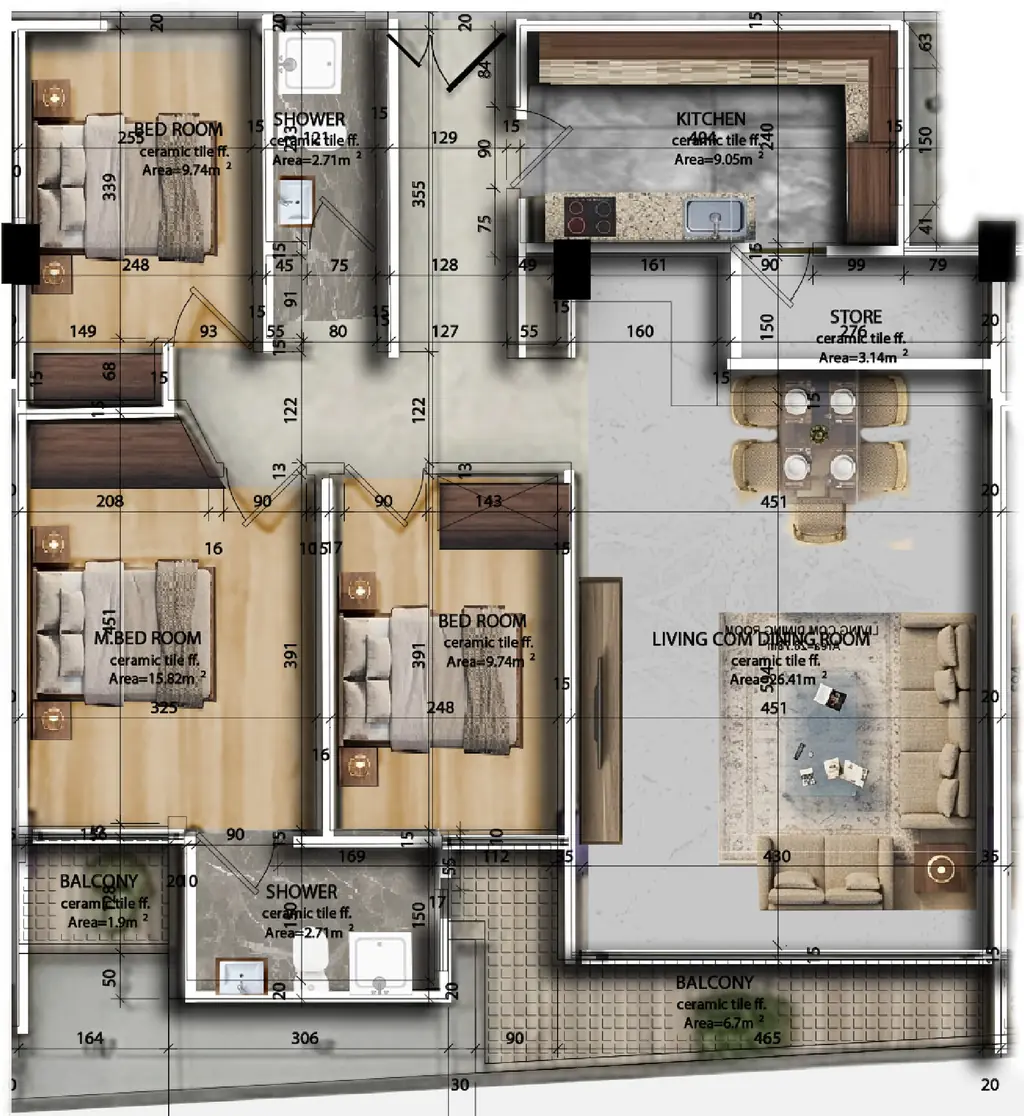
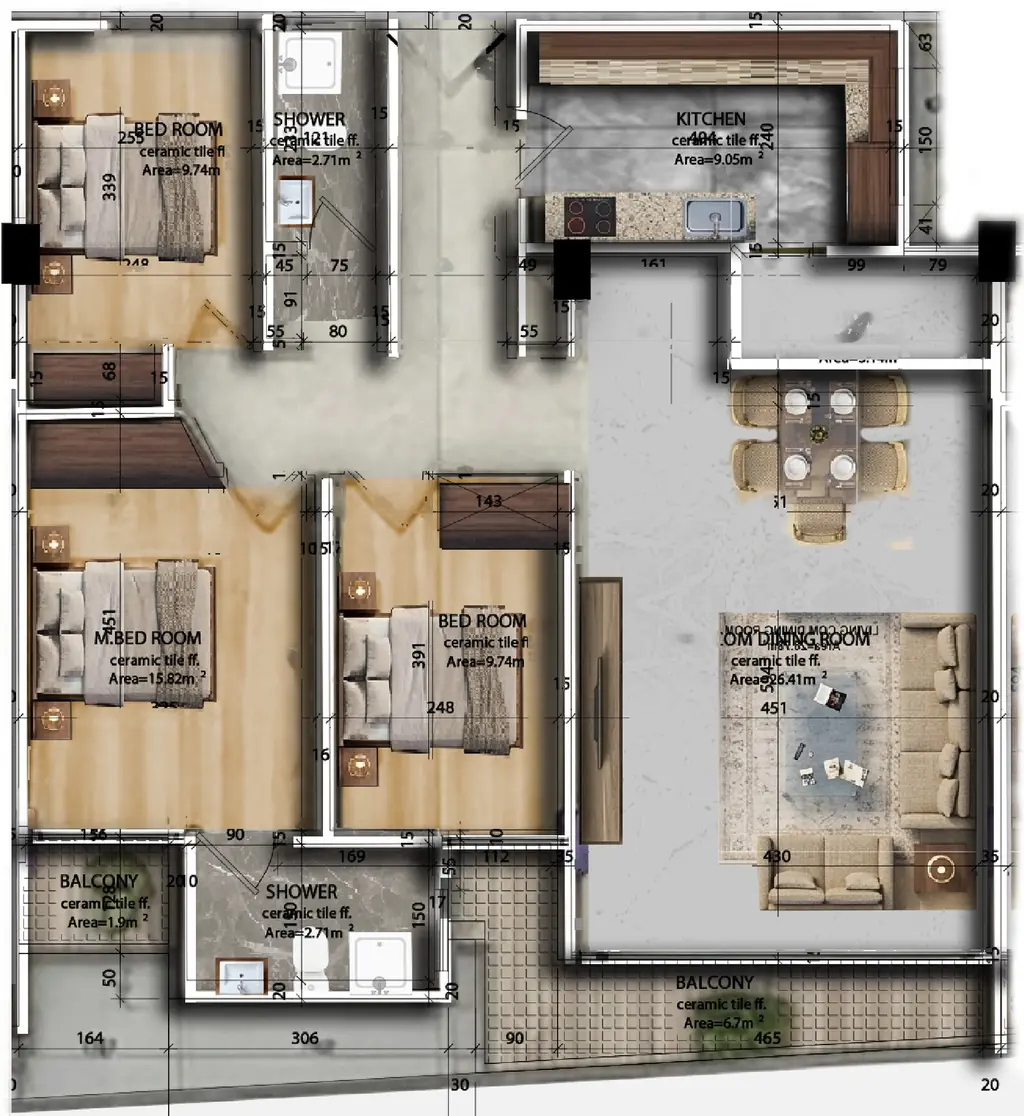
Finalise the AI render art direction and clean the BL05 floor texture (DESIGN rev 8.2)
- Prompts now match the site's mood, palette, light and lens so renders sit with the page
- The kitchen prompt follows the plan's window position
- Dimension lines are painted out of open floor areas in the 3D texture

diff --git a/docs/design/units/clean-bl05-texture.py b/docs/design/units/clean-bl05-texture.py
@@ -1,0 +1,28 @@
+import sys, json
+from PIL import Image, ImageFilter, ImageChops, ImageDraw
+import os; ROOT=os.path.abspath(os.path.join(os.path.dirname(__file__),'../../..'))+'/'
+CX,CY=180,0
+im=Image.open(ROOT+'brand-source/plans/bl05.jpg').convert('RGB').crop((CX,CY,1800,1765))
+d=json.load(open(ROOT+'docs/design/units/bl05.json'))
+SX,SY=d['pxPerM']; OX,OY=d['originPx']
+P=lambda p:(p[0]*SX+OX-CX,p[1]*SY+OY-CY)
+allow=Image.new('L',im.size,0); A=ImageDraw.Draw(allow)
+for r in d['rooms']:
+    if r['id'] in ('bed1','mbed','bed2','living','store'): A.polygon([P(p) for p in r['poly']],fill=255)
+A.polygon([P(p) for p in d['hall']['poly']],fill=255)
+for s in d['solids']:
+    if s['kind'] in ('furniture','counter','wardrobe'):
+        pts=[P(p) for p in s['poly']]; xs=[p[0] for p in pts]; ys=[p[1] for p in pts]
+        A.rectangle((min(xs)-10,min(ys)-10,max(xs)+10,max(ys)+10),fill=0)
+A.rectangle((1320-CX,965,1605-CX,1335),fill=0)   # rug
+A.rectangle((1600-CX,1330,1720-CX,1420),fill=0)  # side lamp table
+r,g,b=im.split()
+mx=ImageChops.lighter(ImageChops.lighter(r,g),b); mn=ImageChops.darker(ImageChops.darker(r,g),b)
+dark=mx.point(lambda v:255 if v<120 else 0); neutral=ImageChops.subtract(mx,mn).point(lambda v:255 if v<40 else 0)
+M=ImageChops.multiply(dark,neutral)
+thin=ImageChops.subtract(M,M.filter(ImageFilter.MinFilter(9)).filter(ImageFilter.MaxFilter(9)))
+mask=ImageChops.multiply(thin.filter(ImageFilter.MaxFilter(5)),allow)
+out=im
+for k in (9,15,21,27):
+    out=Image.composite(out.filter(ImageFilter.MedianFilter(k)),out,mask)
+out.resize((1024,1116),Image.LANCZOS).save(ROOT+'docs/design/units/bl05-floor.webp',quality=74,method=6)

diff --git a/docs/AI-RENDERS.md b/docs/AI-RENDERS.md
@@ -7,6 +7,7 @@ Start the trial only when this list is final. Generate everything in one sitting
 
 1. Generate the **shared interiors** (section A). The finishes are the same across the tower, so one set serves all 9 types.
 2. Generate one **isometric cutaway** per type (section B), using that type's plan as the reference image.
+   - Optional: if there is an edit/inpaint mode, run the 9 plan clean-ups (section C). They improve the live 3D floors.
 3. Make 2–3 variations of each and keep the best.
 4. Download originals at the largest size offered (PNG or JPG) into `brand-source/renders/` (not `public/`). Impl converts them to AVIF/WebP.
 5. Cancel the trial.
@@ -14,15 +15,38 @@ Start the trial only when this list is final. Generate everything in one sitting
 ## Rules for every prompt
 - **Confirmed facts only:** ceramic tile floors; a high-rise apartment in Addis Ababa; balconies where the plan shows them. Nothing else is confirmed: no brands, marble, wood floors, smart-home kit or appliances by name.
 - No text, logos, watermarks or people. No sea, beach or skyline that reads as another city: city views are of low-rise Addis with green hills on the horizon.
-- Palette: warm ivory walls, soft natural light, light wood and linen, small brushed-gold accents, navy textiles as the one deep colour (brand: navy #1A273F, gold #B59458, ivory #FBF7F2).
-- Camera: eye level (1.5 m), 24–28 mm, two-point perspective, 3:2 landscape, photoreal architectural visualisation.
+
+## Art direction (matches the site; DESIGN §2–§3, §9.6.5)
+Append the **style line** below to every interior prompt (section A) unchanged, and the **negative line** wherever the tool takes one.
+
+- **Mood:** calm, quiet and warm, like a well-kept hotel suite photographed for an editorial, not a showroom. Uncluttered, and lived-in only lightly (a folded throw, one book, one plant).
+- **Palette (the site's tokens):**
+  - Walls: ivory `#FBF7F2` and sand `#F3ECE2`, warm off-white, never pure white.
+  - Floors: ceramic tile in the plan's own tones. Light warm-grey large-format tiles in the living room, kitchen and hall. Warm oak-look ceramic plank tiles in the bedrooms, as the plans colour them. Light grey veined ceramic tiles in the shower rooms.
+  - Furniture: linen and light oak.
+  - The **one deep colour is navy** (`#1A273F` to `#0F1828`) in a few textiles (cushions, a throw, a rug border).
+  - **Gold** (`#B59458`) only as small brushed-metal accents (lamp bases, handles, a tap), never large surfaces.
+  - No other saturated colour; greens only from one plant or the hills outside.
+- **Light:** soft late-afternoon daylight (about 4500 K) from the room's window or balcony side, with gentle bounce and soft shadows. Low contrast, with no hard sun patches. The window is exposed so the view still reads; no blown-out glass. Lamps can be on, but they are dimmer than the daylight.
+- **Lens and camera:**
+  - 24 mm for rooms up to about 10 m², 28 mm for the living room.
+  - Camera height 1.45 m, level, so **vertical lines stay vertical** (two-point perspective, no keystone, no fisheye).
+  - The camera stands near the room's door, looking toward the window or balcony wall.
+  - 3:2 landscape, generated as large as the tool allows (at least 1600 × 1067).
+- **Composition:** put the window or balcony on a vertical third. **Keep the bottom-left corner (about 30% wide × 15% tall) calm and low-detail**, because the label chip "Artist's impression; finishes may vary." sits there on the site.
+- **Grade:** soft and slightly warm. Whites sit at ivory, blacks are lifted slightly, saturation is about 10% below natural. No teal-and-orange grade, HDR halos, plastic CGI sheen or bloom.
+- **View outside:** low-rise Addis Ababa rooftops and trees with green hills on the horizon, under a soft hazy sky. Never sea, beach, desert or a skyline of towers.
+
+**Style line (A):** `photoreal architectural interior photograph, calm warm editorial mood, ivory and sand walls, ceramic tile floor, linen and light oak furniture, navy textiles as the only deep colour, small brushed-gold accents, soft late-afternoon daylight 4500K from the window side, low contrast, soft shadows, 1.45 m camera height, level two-point perspective with straight verticals, 3:2, quiet bottom-left corner`
+
+**Negative line:** `text, letters, logo, watermark, people, pets, brand names, marble, hardwood floor, carpet, chrome, bright colours, teal and orange grade, HDR, bloom, fisheye, tilted verticals, wide-angle distortion, clutter, sea, beach, skyscraper skyline, night`
 - Use the room's plan crop as the reference image when the tool accepts one, so the shape and door/window positions follow the plan.
 
 ## A. Shared interiors (5 shots)
 | # | Room (plan label) | Size reference | Prompt |
 |---|---|---|---|
 | A1 | Living / dining | BL05 26.41 m² | Photoreal interior of a bright modern living and dining room in a high-rise apartment in Addis Ababa. Light beige ceramic tile floor, warm ivory walls, a low linen sofa facing a slim TV wall unit, a round coffee table on a soft rug, a six-seat light-wood dining table near the kitchen door. Floor-to-ceiling glazed door to a balcony with a view over low-rise city and green hills. Soft late-afternoon daylight, brushed-gold lamp, navy cushions. No people, no text. 3:2, eye level, 24 mm. |
-| A2 | Kitchen | BL05 9.05 m² | Photoreal interior of a compact L-shaped kitchen in a modern apartment. Light ceramic tile floor and splashback, matte ivory cabinets with slim brushed-gold handles, stone-look worktop, built-in hob and sink under a single window. Clean, uncluttered, soft daylight. No brands, no people, no text. 3:2, eye level, 24 mm. |
+| A2 | Kitchen | BL05 9.05 m² | Photoreal interior of a compact L-shaped kitchen in a modern apartment. Light ceramic tile floor and splashback, matte ivory cabinets with slim brushed-gold handles, stone-look worktop, the hob and sink on the counter run that faces into the room, a tall run of cabinets along the back wall, and a single window above the side counter (the plan shows the window on the short side wall, not over the sink). Clean, uncluttered, soft daylight. No brands, no people, no text. 3:2, eye level, 24 mm. |
 | A3 | Master bedroom | BL05 15.82 m² | Photoreal interior of a calm master bedroom in a modern apartment. Light ceramic tile floor, warm ivory walls, a double bed with linen bedding and a navy throw, two nightstands with small brushed-gold lamps, a built-in wardrobe along one wall. A glazed door to a small balcony with soft daylight. No people, no text. 3:2, eye level, 26 mm. |
 | A4 | Bedroom | BL05 9.74 m² | Photoreal interior of a cosy secondary bedroom in a modern apartment. Light ceramic tile floor, ivory walls, a double bed with light linen, a nightstand and a wall wardrobe, soft daylight from a window. No people, no text. 3:2, eye level, 24 mm. |
 | A5 | Shower room | BL05 2.71 m² | Photoreal interior of a small modern shower room. Large-format light grey ceramic tiles on floor and walls, a walk-in shower with a clear glass screen, a wall-hung basin with a round mirror and a brushed-gold tap, a wall-hung WC. Soft even light. No people, no text. 3:2, eye level, 24 mm. |
@@ -30,9 +54,20 @@ Start the trial only when this list is final. Generate everything in one sitting
 ## B. Isometric cutaway per type (9 shots)
 Reference image: `brand-source/plans/bl0X.jpg`. Use one prompt for all nine and change only the type line.
 
-> Isometric 3D architectural cutaway of a single apartment, viewed from above at about 45°, walls cut at waist-to-head height, no ceiling, following the attached floor plan exactly: same rooms, wall positions, doors and balconies. {TYPE: e.g. "3 bedrooms, living/dining, kitchen, store, 2 shower rooms, 2 balconies"}. Light ceramic tile floors, warm ivory walls, light-wood and linen furniture as on the plan, small brushed-gold accents, soft daylight with gentle shadows. Floating on a plain deep navy (#1A273F) background. No text, labels, dimensions, people or logos. Square, high detail.
+> Isometric 3D architectural cutaway of a single apartment, a physical-model look. The camera looks down at about 55–60° from the lower-left corner (a three-quarter view), with a long lens close to orthographic. All walls are cut at about door-head height, there is no ceiling, and the unit sits on a clean ivory base about 30 cm thick. Follow the attached floor plan exactly: same rooms, wall positions, doors and balconies. {TYPE: e.g. "3 bedrooms, living/dining, kitchen, store, 2 shower rooms, 2 balconies"}. Wall tops and faces in warm ivory (#FBF7F2), never grey. Ceramic tile floors in the plan's tones (light warm-grey living areas, oak-look plank tiles in bedrooms, light grey veined tiles in shower rooms). Linen and light-oak furniture placed as on the plan, navy textiles as the only deep colour, tiny brushed-gold accents. Soft warm daylight from the upper left with gentle contact shadows. Floating on a plain deep navy (#0F1828) background with a soft darker shadow under the base. No text, labels, dimensions, people or logos. Square 1:1, at least 2048 px, high detail.
+
+This matches the site's own 3D dollhouse (DESIGN §9.6), so the stills and the live model read as one family.
 
 Check each cutaway against its plan: room count, room order, door positions and balconies. Reject any image that adds or moves a room.
+
+## C. Plan clean-up for the 3D floor textures (optional, 9 edits)
+The live 3D model (DESIGN §9.6) uses each furnished plan as its floor. The plans carry dimension lines, numbers and room labels, and a script can only remove some of them cleanly (`docs/design/units/clean-bl05-texture.py`, v1.5). If the trial has an **edit / inpaint** mode, use it on `brand-source/plans/bl0X.jpg`:
+
+> Remove all dimension lines, dimension numbers, tick marks, room names, area labels and "ceramic tile ff." text from this floor plan. Fill those areas with the surrounding floor, rug or furniture texture so they continue naturally. Change nothing else: keep every wall, door swing, piece of furniture, colour and shadow exactly where it is. Same image size, no crop, no shift.
+
+- Keep the output at **exactly the input's pixel size** (BL05: 2000 × 1765). The 3D geometry is aligned to the plan's pixels.
+- Check it by toggling over the original: walls and furniture must not move by even a pixel. Reject any image that redraws or restyles furniture.
+- Save the result as `brand-source/plans/clean/bl0X.jpg`. Design re-crops it into `docs/design/units/bl0X-floor.webp`.
 
 ## Acceptance checklist (per image)
 - [ ] Matches the plan's room shape and openings (cutaways: room count and layout).

diff --git a/docs/DESIGN.md b/docs/DESIGN.md
@@ -2,7 +2,7 @@
 
 Owner: `realstate-frontend-design`. Inputs: `docs/BRIEF.md` (facts and the quality bar) and `CLAUDE.md`. If this spec and the brief disagree on a fact, the brief wins. Everything here is direction and can be refined. If you change direction, say so in this file so the reviewer has something to check against.
 
-**Changelog.** 14 Nov 2026, rev 8.1 (review of 4e7da27): §9.6.7 accepts impl's deviations 1–5. Hotspots now float above the cut, with leader lines. A camera fill light keeps wall faces cream. The model is cut at 2.4 m with a 60° default elevation, and the fit is 100%. BL05 gains 17 furniture blocks whose tops reuse the plan texture. The panel puts the actions above a 2-column room list. Rev 7.1 (round 5 review): the Save-Data/slow opt-in map opens at z17 with no fly; the two-finger hint moves to 70% height; the map glue budget is now 4 KB (§5.6, §10). Rev 8 (BRIEF "3D apartments", 40c474f): new §9.6, the unit dollhouse. When a unit has 3D geometry, its plan lifts into a Three.js cutaway with room hotspots, a slim side panel and a room card with the AI interior slot (placeholder: the room's plan crop). The pilot is BL05: `docs/design/units/bl05.json` plus its floor texture, check overlay and tracing script. Also §9.2 UNIT, §8, §10, §11, §12. Rev 7 (client, BRIEF Update 2026-11-14 and ea0501e): Location becomes a real Leaflet + Esri World Imagery satellite map with a branded pin at 8.9356809, 38.7299505. The SVG diagram is now only the static fallback (no JS, slow or Save-Data until opted in, tile failure), and "Diagram, not to scale." shows only with it. "Get directions" is switched on; there is an optional Esri key, and the attribution is always visible (§5.6 rewritten, §7.3 S13–S14, §8, §10). A "Contact us on Telegram" card shows the two usernames only. The form hands off to Telegram with a prefilled draft, a copy fallback and a persistent "Finish in Telegram" panel (§5.8). Strings with draft Amharic are in §11, open items in §12. Rev 6 (user decision) (user decision): the film becomes the full hero background with a verified shade, grain, a play control and pause/sound controls (§5.1 rewritten, §5.11, §7.2, §7.3 S1, §8, §10). The rev 5 film card is removed. The Story arch now shows the whole tower (§5.3), and the Enquire arch takes the balconies detail. Rev 5 (BRIEF "Update 2026-11-14"): the tower film and its sound toggle (new §5.11, the hero card in §5.1, §7.2, §7.3 S1, §8, §10); building features band (§5.7: three pillars plus four features); 16 floors (§5.1, §5.2, §9.2); BL01 "to be confirmed" off floors 4, 6, 8, 10, 11 (§5.5, §5.8, §9.1–§9.3); the exact Maps pin (§5.6). Each rev 5 change is tagged "rev 5" where it lives, so later client facts can be slotted in one place at a time. Rev 4: §10 HTML budget raised to 40 KB gzipped (inline CSS by choice). Rev 3 (M2 visual QA): S9 dusk is now a static gradient (the fixed veil dimmed the story copy); §9.4 camera framing numbers, ground disc, look-at clamp, glazing colour. 12 Nov 2026, rev 2: applied review findings 1–10 (`.theme-paper`, `--input-border`, no colour tweens, copy fixes, CSS-only hero reveal, server-rendered hotspot hrefs, font subsetting, blocks internal only, pillar and payment copy, mark as `<symbol>`).
+**Changelog.** 14 Nov 2026, rev 8.2 (re-check of rev 8.1, §9.6.8): stronger camera fill, greige-oak wardrobes, floor texture v1.5. Rev 8.1 (review of 4e7da27): §9.6.7 accepts impl's deviations 1–5. Hotspots now float above the cut, with leader lines. A camera fill light keeps wall faces cream. The model is cut at 2.4 m with a 60° default elevation, and the fit is 100%. BL05 gains 17 furniture blocks whose tops reuse the plan texture. The panel puts the actions above a 2-column room list. Rev 7.1 (round 5 review): the Save-Data/slow opt-in map opens at z17 with no fly; the two-finger hint moves to 70% height; the map glue budget is now 4 KB (§5.6, §10). Rev 8 (BRIEF "3D apartments", 40c474f): new §9.6, the unit dollhouse. When a unit has 3D geometry, its plan lifts into a Three.js cutaway with room hotspots, a slim side panel and a room card with the AI interior slot (placeholder: the room's plan crop). The pilot is BL05: `docs/design/units/bl05.json` plus its floor texture, check overlay and tracing script. Also §9.2 UNIT, §8, §10, §11, §12. Rev 7 (client, BRIEF Update 2026-11-14 and ea0501e): Location becomes a real Leaflet + Esri World Imagery satellite map with a branded pin at 8.9356809, 38.7299505. The SVG diagram is now only the static fallback (no JS, slow or Save-Data until opted in, tile failure), and "Diagram, not to scale." shows only with it. "Get directions" is switched on; there is an optional Esri key, and the attribution is always visible (§5.6 rewritten, §7.3 S13–S14, §8, §10). A "Contact us on Telegram" card shows the two usernames only. The form hands off to Telegram with a prefilled draft, a copy fallback and a persistent "Finish in Telegram" panel (§5.8). Strings with draft Amharic are in §11, open items in §12. Rev 6 (user decision) (user decision): the film becomes the full hero background with a verified shade, grain, a play control and pause/sound controls (§5.1 rewritten, §5.11, §7.2, §7.3 S1, §8, §10). The rev 5 film card is removed. The Story arch now shows the whole tower (§5.3), and the Enquire arch takes the balconies detail. Rev 5 (BRIEF "Update 2026-11-14"): the tower film and its sound toggle (new §5.11, the hero card in §5.1, §7.2, §7.3 S1, §8, §10); building features band (§5.7: three pillars plus four features); 16 floors (§5.1, §5.2, §9.2); BL01 "to be confirmed" off floors 4, 6, 8, 10, 11 (§5.5, §5.8, §9.1–§9.3); the exact Maps pin (§5.6). Each rev 5 change is tagged "rev 5" where it lives, so later client facts can be slotted in one place at a time. Rev 4: §10 HTML budget raised to 40 KB gzipped (inline CSS by choice). Rev 3 (M2 visual QA): S9 dusk is now a static gradient (the fixed veil dimmed the story copy); §9.4 camera framing numbers, ground disc, look-at clamp, glazing colour. 12 Nov 2026, rev 2: applied review findings 1–10 (`.theme-paper`, `--input-border`, no colour tweens, copy fixes, CSS-only hero reveal, server-rendered hotspot hrefs, font subsetting, blocks internal only, pillar and payment copy, mark as `<symbol>`).
 
 **Design assets this spec relies on (all in the repo):**
 
@@ -15,7 +15,7 @@ Owner: `realstate-frontend-design`. Inputs: `docs/BRIEF.md` (facts and the quali
 | `public/video/hero-bg.webm` (AV1), `hero-bg.mp4` (H.264), `hero-bg-poster.webp` / `.jpg` | Rev 6 hero background: a 640×352, 24 fps, 20.6 s loop with no audio and a continuous seam, plus its first frame as the poster (the LCP). The rev 5 `film-loop.*` and `film-poster.*` files are no longer used. |
 | `docs/design/hero-grain.png`, `hero-shade-check.jpg`, `hero-shade-contrast.py` | Rev 6: the grain tile, the shade previewed over the poster at 1366 and 360, and the script that verified hero text contrast over every second of the loop. |
 | `docs/design/story-arch-check.jpg` | Rev 6: the whole-tower Story crop seen through the dome mask, at rest and at 1.06 overscan. |
-| `docs/design/units/bl05.json`, `bl05-floor.webp`, `bl05-check.jpg`, `trace-bl05.py` | Rev 8: BL05's 3D geometry (walls, openings, solids, rooms, in metres), its floor texture, the overlay check against the plan, and the script that traced it (§9.6.1). |
+| `docs/design/units/bl05.json`, `bl05-floor.webp`, `bl05-check.jpg`, `trace-bl05.py`, `clean-bl05-texture.py` | Rev 8: BL05's 3D geometry (walls, openings, solids, rooms, in metres), its floor texture, the overlay check against the plan, and the script that traced it (§9.6.1). |
 | `public/video/film.mp4`, `film-full-poster.webp` / `.jpg` | The full 41 s fly-through (640×352, H.264 + AAC, faststart) and its poster, 640×352. Loaded only when the film dialog opens. The source is `brand-source/video/tower-film-original.mp4`. |
 
 ---
@@ -1344,6 +1344,16 @@ Design eyeballed the dollhouse on :4321 (Explore → floor 7 → BL05 → 3D). T
 - Furniture is **illustrative**. It follows the plan's furniture drawing, which is itself a staging suggestion. The "Renders and plans are illustrative" line already under the panel covers it.
 
 Everything else in the scene matches the spec: the lift, cutaway, orbit, ground shadow, plinth, glass railings, warm palette and texture, as well as the mobile layout.
+
+#### 9.6.8 Rev 8.2: re-check of rev 8.1 (b9a1e26 … eecb8cb)
+
+Re-checked on :4321 at 1366 × 900 (three orbit angles) and 390 × 844. All six rev 8.1 fixes are in: all 10 hotspots show with leader lines, the actions sit above the 2-column room list, the furniture has volume, and the model fills the stage well. It now reads close to the reference. Three things remain:
+
+| # | Seen | Fix |
+|---|---|---|
+| G | Camera-facing wall faces measure about `rgb(178,168,162)` on screen, still below the A target (≥ `#D9CFC0` = 217,207,192). They read as warm grey, not cream. | Raise the camera fill light about 1.5× (start 2.4) and re-measure. If wall tops blow out above 245 before the faces reach the target, raise the hemisphere sky intensity instead. |
+| H | Wardrobes render orange, about `rgb(217,170,118)`. Under the warm light, `#B08A63` reads as orange, not oak. | Change the wardrobe colour to greige oak **`#B5A08A`**. |
+| I | The floor still shows the plan's dimension lines and labels. | **Texture v1.5 delivered:** `docs/design/units/bl05-floor.webp`, same crop and size (1024 × 1116, 97 KB), so no JSON change. Long dimension lines and labels on open floor (hall, living room, bedrooms, store) are painted out by `docs/design/units/clean-bl05-texture.py`. Labels over furniture, the rug, the kitchen, the shower rooms and the balconies stay: the script smears them. Rebuild the AVIF from it. A full clean-up (v2) is section C of `docs/AI-RENDERS.md`, using the AI trial's inpaint mode with pixel alignment kept. |
 
 ---
 
